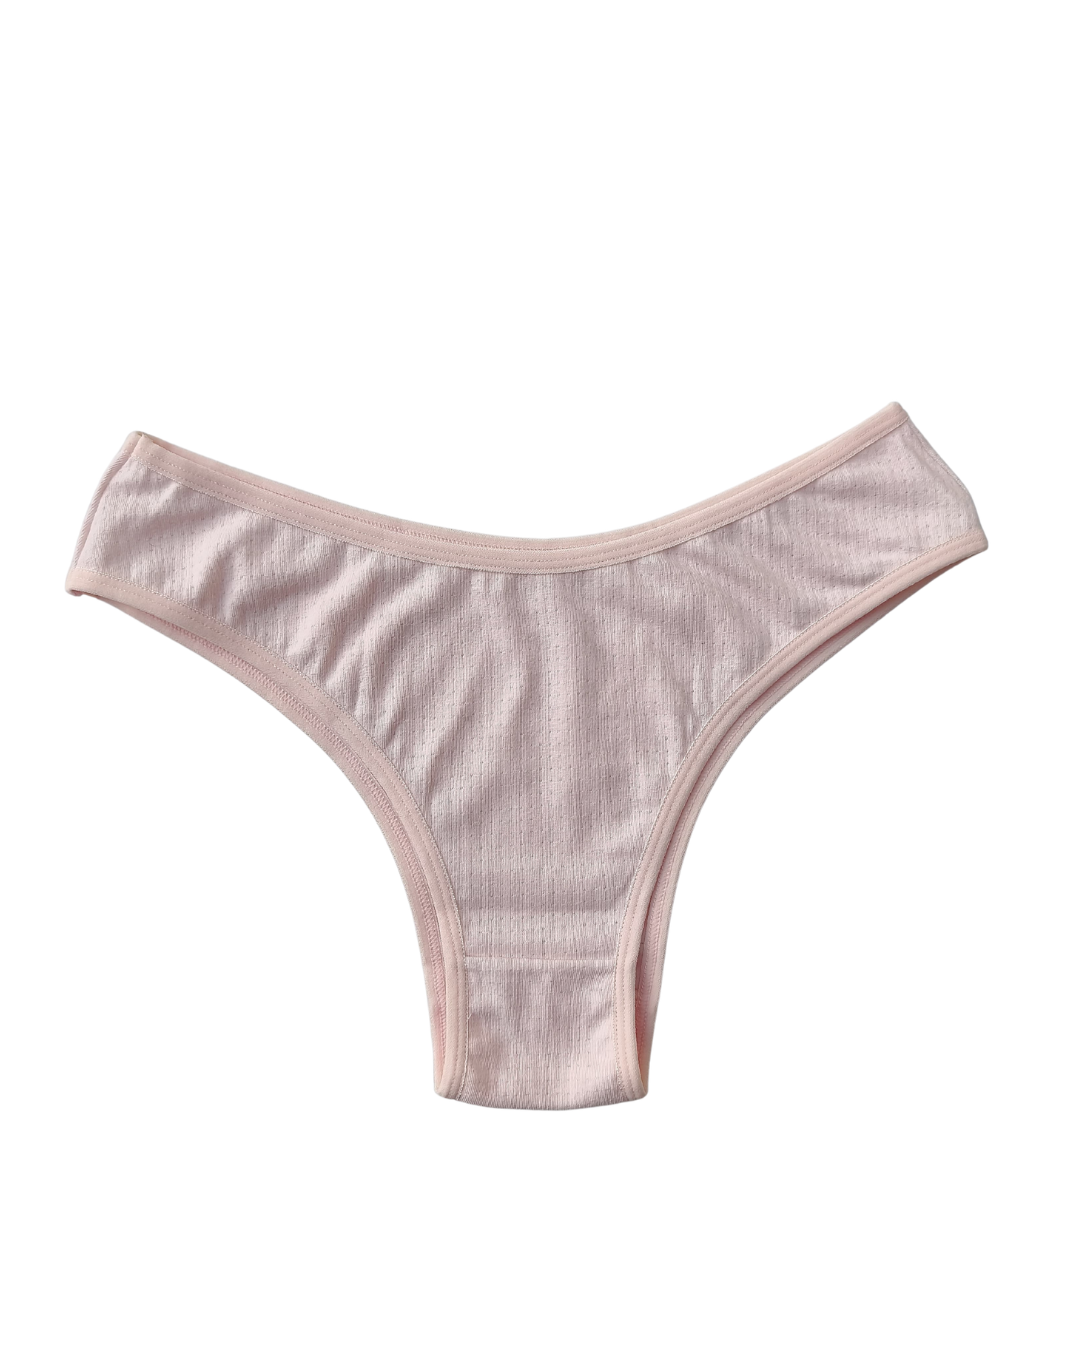
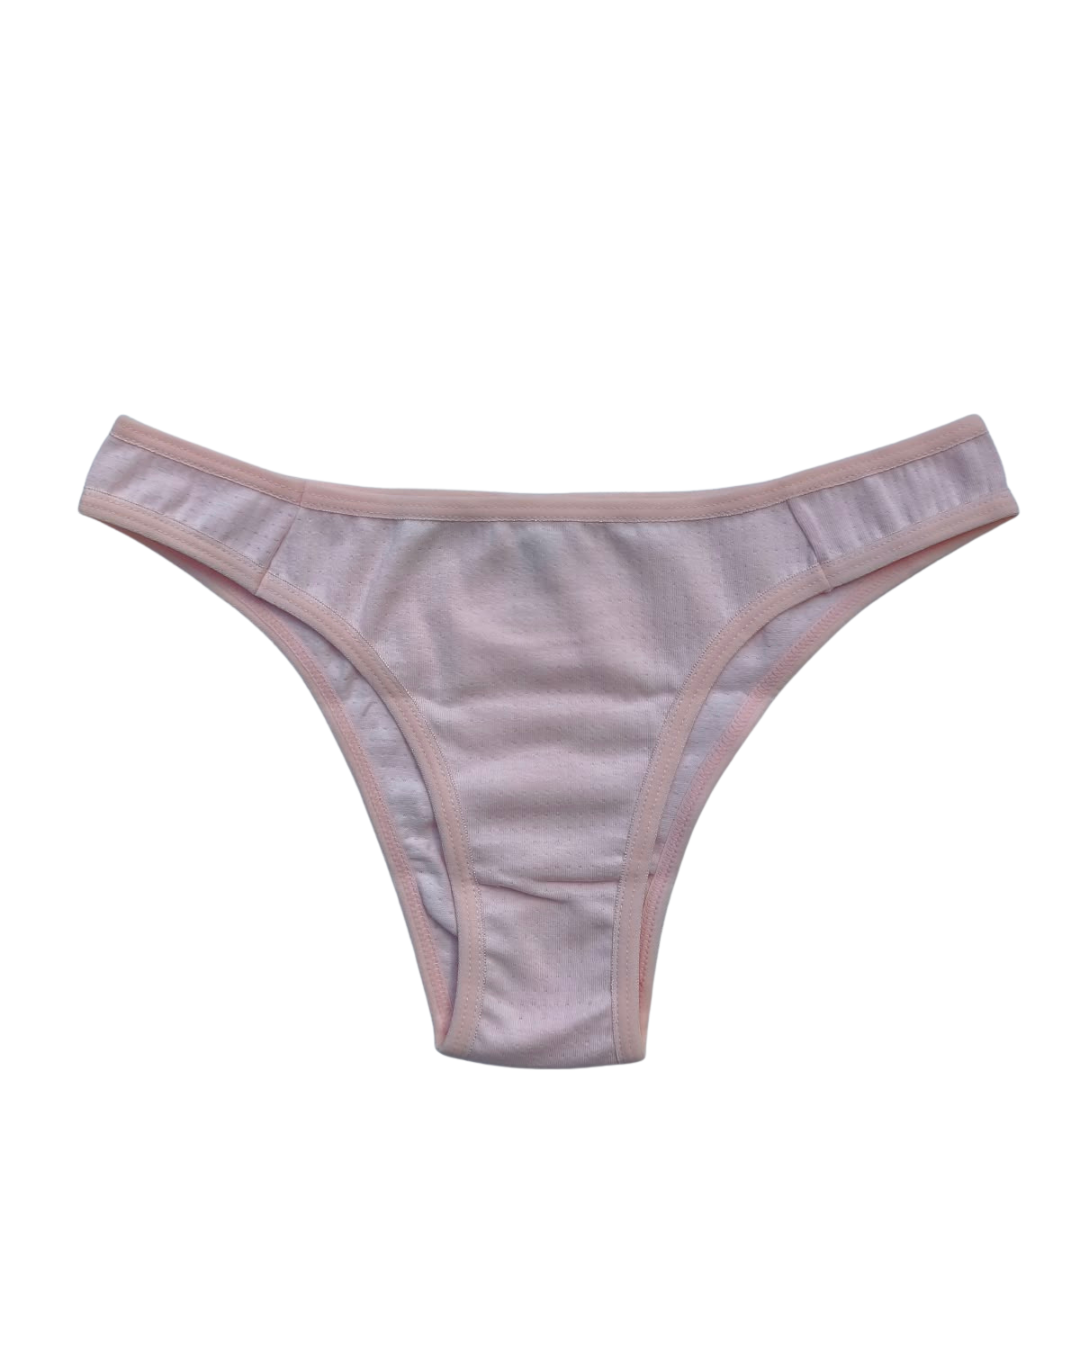
Imagens de produtos finalizados.

Changed region(s): [[0.0611, 0.28, 0.9472, 0.84]]

diff --git a/index.html b/index.html
@@ -58,7 +58,7 @@
           <img src="img/calcinha_gioh.png" alt="calcinha_gioh">
         </div>
         <div class="flip-card-face flip-card-back placeholder placeholder--a-back">
-           <img src="img/calcinha_gioh_costas.png" alt="calcinha_gioh_costas">
+          <img src="img/calcinha_gioh_costas.png" alt="calcinha_gioh_costas">
         </div>
       </div>
     </div>
@@ -71,22 +71,22 @@
   </section>
 
   <!-- Produto 2 -->
-  <section class="product product--reverse" data-reveal>
+  <section class="product" data-reveal>
+    <div class="flip-card" tabindex="0" role="button" aria-label="Toque para ver o verso de Anéis Aurora">
+      <div class="flip-card-inner">
+        <div class="flip-card-face flip-card-front placeholder placeholder--a">
+          <img src="img/calcinha_leticia.png" alt="calcinha_leticia">
+        </div>
+        <div class="flip-card-face flip-card-back placeholder placeholder--a-back">
+          <img src="img/calcinha_leticia_costas.png" alt="calcinha_leticia_costas">
+        </div>
+      </div>
+    </div>
     <div class="info-card">
       <h3>Calcinha Letícia</h3>
       <p class="info-card__material">Ref 002</p>
-      <p class="info-card__desc">Conjunto de 3 cordões banhados a ouro que combinam elegância e versatilidade no dia a dia.</p>
+      <p class="info-card__desc">Um duo de anéis que une sofisticação e significado. Acabamento polido e design orgânico e exclusivo.</p>
       <p class="info-card__price">R$19,99</p>
-    </div>
-    <div class="flip-card" tabindex="0" role="button" aria-label="Toque para ver o verso de Colar Ophelia">
-      <div class="flip-card-inner">
-        <div class="flip-card-face flip-card-front placeholder placeholder--b">
-          <img src="#" alt="calcinha_leticia">
-        </div>
-        <div class="flip-card-face flip-card-back placeholder placeholder--b-back">
-          <img src="#" alt="calcinha_leticia_costas">
-        </div>
-      </div>
     </div>
   </section>
 
@@ -95,10 +95,10 @@
     <div class="flip-card" tabindex="0" role="button" aria-label="Toque para ver o verso de Anéis Aurora">
       <div class="flip-card-inner">
         <div class="flip-card-face flip-card-front placeholder placeholder--a">
-          <img src="#" alt="calcinha_vera">
+          <img src="img/calcinha_vera.png" alt="calcinha_vera">
         </div>
         <div class="flip-card-face flip-card-back placeholder placeholder--a-back">
-           <img src="#" alt="calcinha_vera_costas">
+          <img src="img/calcinha_vera_costas.png" alt="calcinha_vera_costas">
         </div>
       </div>
     </div>
@@ -111,22 +111,22 @@
   </section>
 
   <!-- Produto 4 -->
-  <section class="product product--reverse" data-reveal>
+  <section class="product" data-reveal>
+    <div class="flip-card" tabindex="0" role="button" aria-label="Toque para ver o verso de Anéis Aurora">
+      <div class="flip-card-inner">
+        <div class="flip-card-face flip-card-front placeholder placeholder--a">
+          <img src="img/calcinha_mel.png" alt="calcinha_mel">
+        </div>
+        <div class="flip-card-face flip-card-back placeholder placeholder--a-back">
+          <img src="img/calcinha_mel_costas.png" alt="calcinha_mel_costas">
+        </div>
+      </div>
+    </div>
     <div class="info-card">
       <h3>Calcinha Mel</h3>
       <p class="info-card__material">Ref 008</p>
-      <p class="info-card__desc">Conjunto de 3 cordões banhados a ouro que combinam elegância e versatilidade no dia a dia.</p>
+      <p class="info-card__desc">Um duo de anéis que une sofisticação e significado. Acabamento polido e design orgânico e exclusivo.</p>
       <p class="info-card__price">R$26,99</p>
-    </div>
-    <div class="flip-card" tabindex="0" role="button" aria-label="Toque para ver o verso de Colar Ophelia">
-      <div class="flip-card-inner">
-        <div class="flip-card-face flip-card-front placeholder placeholder--b">
-          <img src="#" alt="calcinha_mel">
-        </div>
-        <div class="flip-card-face flip-card-back placeholder placeholder--b-back">
-          <img src="#" alt="calcinha_mel_costas">
-        </div>
-      </div>
     </div>
   </section>
 
@@ -135,10 +135,10 @@
     <div class="flip-card" tabindex="0" role="button" aria-label="Toque para ver o verso de Anéis Aurora">
       <div class="flip-card-inner">
         <div class="flip-card-face flip-card-front placeholder placeholder--a">
-          <img src="#" alt="calcinha_thais">
+          <img src="img/calcinha_thais.png" alt="calcinha_thais">
         </div>
         <div class="flip-card-face flip-card-back placeholder placeholder--a-back">
-           <img src="#" alt="calcinha_thais_costas">
+          <img src="img/calcinha_thais_costas.png" alt="calcinha_thais_costas">
         </div>
       </div>
     </div>
@@ -150,23 +150,23 @@
     </div>
   </section>
 
-  <!-- Produto 6 -->
-  <section class="product product--reverse" data-reveal>
-    <div class="info-card">
-      <h3>Calcinha Paula</h3>
-      <p class="info-card__material">Ref 011</p>
-      <p class="info-card__desc">Conjunto de 3 cordões banhados a ouro que combinam elegância e versatilidade no dia a dia.</p>
-      <p class="info-card__price">R$26,99</p>
-    </div>
-    <div class="flip-card" tabindex="0" role="button" aria-label="Toque para ver o verso de Colar Ophelia">
+  <!-- Produto 5 -->
+  <section class="product" data-reveal>
+    <div class="flip-card" tabindex="0" role="button" aria-label="Toque para ver o verso de Anéis Aurora">
       <div class="flip-card-inner">
-        <div class="flip-card-face flip-card-front placeholder placeholder--b">
+        <div class="flip-card-face flip-card-front placeholder placeholder--a">
           <img src="img/calcinha_paula.png" alt="calcinha_paula">
         </div>
-        <div class="flip-card-face flip-card-back placeholder placeholder--b-back">
+        <div class="flip-card-face flip-card-back placeholder placeholder--a-back">
           <img src="img/calcinha_paula_costas.png" alt="calcinha_paula_costas">
         </div>
       </div>
+    </div>
+    <div class="info-card">
+      <h3>Calcinha Paula</h3>
+      <p class="info-card__material">Ref 011</p>
+      <p class="info-card__desc">Um duo de anéis que une sofisticação e significado. Acabamento polido e design orgânico e exclusivo.</p>
+      <p class="info-card__price">R$26,99</p>
     </div>
   </section>
 
@@ -175,10 +175,10 @@
     <div class="flip-card" tabindex="0" role="button" aria-label="Toque para ver o verso de Anéis Aurora">
       <div class="flip-card-inner">
         <div class="flip-card-face flip-card-front placeholder placeholder--a">
-          <img src="#" alt="calcinha_paola">
+          <img src="img/calcinha_paola.png" alt="calcinha_paola">
         </div>
         <div class="flip-card-face flip-card-back placeholder placeholder--a-back">
-           <img src="#" alt="calcinha_paola_costas">
+          <img src="img/calcinha_paola_costas.png" alt="calcinha_paola_costas">
         </div>
       </div>
     </div>
@@ -191,22 +191,22 @@
   </section>
 
   <!-- Produto 8 -->
-  <section class="product product--reverse" data-reveal>
+  <section class="product" data-reveal>
+    <div class="flip-card" tabindex="0" role="button" aria-label="Toque para ver o verso de Anéis Aurora">
+      <div class="flip-card-inner">
+        <div class="flip-card-face flip-card-front placeholder placeholder--a">
+          <img src="img/calcinha_jeniffer_r.png" alt="calcinha_jeniffer_renda">
+        </div>
+        <div class="flip-card-face flip-card-back placeholder placeholder--a-back">
+          <img src="img/calcinha_jeniffer_r_costas.png" alt="calcinha_jeniffer_renda_costas">
+        </div>
+      </div>
+    </div>
     <div class="info-card">
       <h3>Calcinha Jeniffer Renda</h3>
       <p class="info-card__material">Ref 033</p>
-      <p class="info-card__desc">Conjunto de 3 cordões banhados a ouro que combinam elegância e versatilidade no dia a dia.</p>
+      <p class="info-card__desc">Um duo de anéis que une sofisticação e significado. Acabamento polido e design orgânico e exclusivo.</p>
       <p class="info-card__price">R$27,99</p>
-    </div>
-    <div class="flip-card" tabindex="0" role="button" aria-label="Toque para ver o verso de Colar Ophelia">
-      <div class="flip-card-inner">
-        <div class="flip-card-face flip-card-front placeholder placeholder--b">
-          <img src="#" alt="calcinha_jeniffer_renda">
-        </div>
-        <div class="flip-card-face flip-card-back placeholder placeholder--b-back">
-          <img src="#" alt="calcinha_jeniffer_renda_costas">
-        </div>
-      </div>
     </div>
   </section>
 
@@ -233,10 +233,10 @@
     <div class="flip-card" tabindex="0" role="button" aria-label="Toque para ver o verso de Brincos Rosalie">
       <div class="flip-card-inner">
         <div class="flip-card-face flip-card-front placeholder placeholder--c">
-          <img src="#" alt="cueca_antonio">
+          <img src="img/cueca_antonio.png" alt="cueca_antonio">
         </div>
         <div class="flip-card-face flip-card-back placeholder placeholder--c-back">
-          <img src="#" alt="cueca_antonio_costas">
+          <img src="img/cueca_antonio_costas.png" alt="cueca_antonio_costas">
         </div>
       </div>
     </div>
@@ -249,22 +249,22 @@
   </section>
 
   <!-- Produto 2 -->
-  <section class="product product--reverse" data-reveal>
-    <div class="info-card">
-      <h3>Cueca Rafael</h3>
-      <p class="info-card__material">Ref 006</p>
-      <p class="info-card__desc">Elos delicados em corrente cartier, com fecho reforçado e ajuste em dois tamanhos.</p>
-      <p class="info-card__price">R$279,90</p>
-    </div>
-    <div class="flip-card" tabindex="0" role="button" aria-label="Toque para ver o verso de Pulseira Camille">
+  <section class="product" data-reveal>
+    <div class="flip-card" tabindex="0" role="button" aria-label="Toque para ver o verso de Brincos Rosalie">
       <div class="flip-card-inner">
-        <div class="flip-card-face flip-card-front placeholder placeholder--d">
-          <img src="#" alt="cueca_rafael">
+        <div class="flip-card-face flip-card-front placeholder placeholder--c">
+          <img src="img/kit_cueca_rafael.png" alt="cueca_rafael">
         </div>
-        <div class="flip-card-face flip-card-back placeholder placeholder--d-back">
-          <img src="#" alt="cueca_rafael_costas">
+        <div class="flip-card-face flip-card-back placeholder placeholder--c-back">
+          <img src="img/kit_cueca_rafael_costas.png" alt="cueca_rafael_costas">
         </div>
       </div>
+    </div>
+    <div class="info-card">
+      <h3>Kit Cueca Rafael</h3>
+      <p class="info-card__material">Ref 006</p>
+      <p class="info-card__desc">Pequenos pontos de luz para usar todos os dias. Fecho borboleta e acabamento antialérgico.</p>
+      <p class="info-card__price">R$39,99</p>
     </div>
   </section>
 
@@ -273,10 +273,10 @@
     <div class="flip-card" tabindex="0" role="button" aria-label="Toque para ver o verso de Brincos Rosalie">
       <div class="flip-card-inner">
         <div class="flip-card-face flip-card-front placeholder placeholder--c">
-          <img src="#" alt="cueca_joao">
+          <img src="img/cueca_joão.png" alt="cueca_joao">
         </div>
         <div class="flip-card-face flip-card-back placeholder placeholder--c-back">
-          <img src="#" alt="cueca_joao_costas">
+          <img src="img/cueca_joão_costas.png" alt="cueca_joao_costas">
         </div>
       </div>
     </div>
